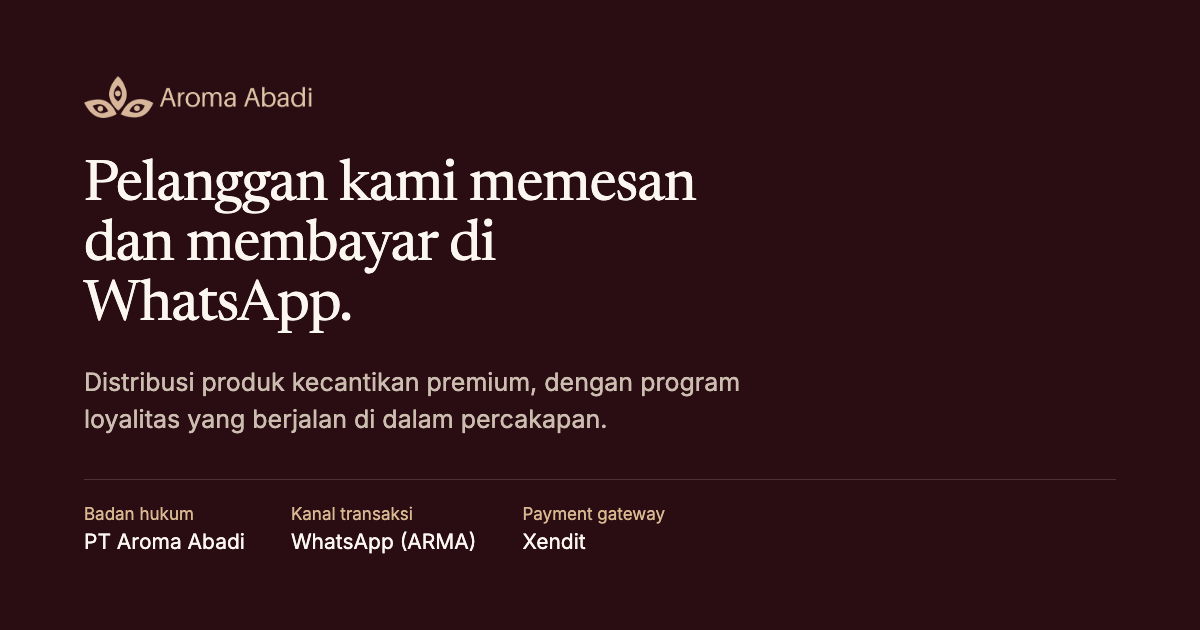
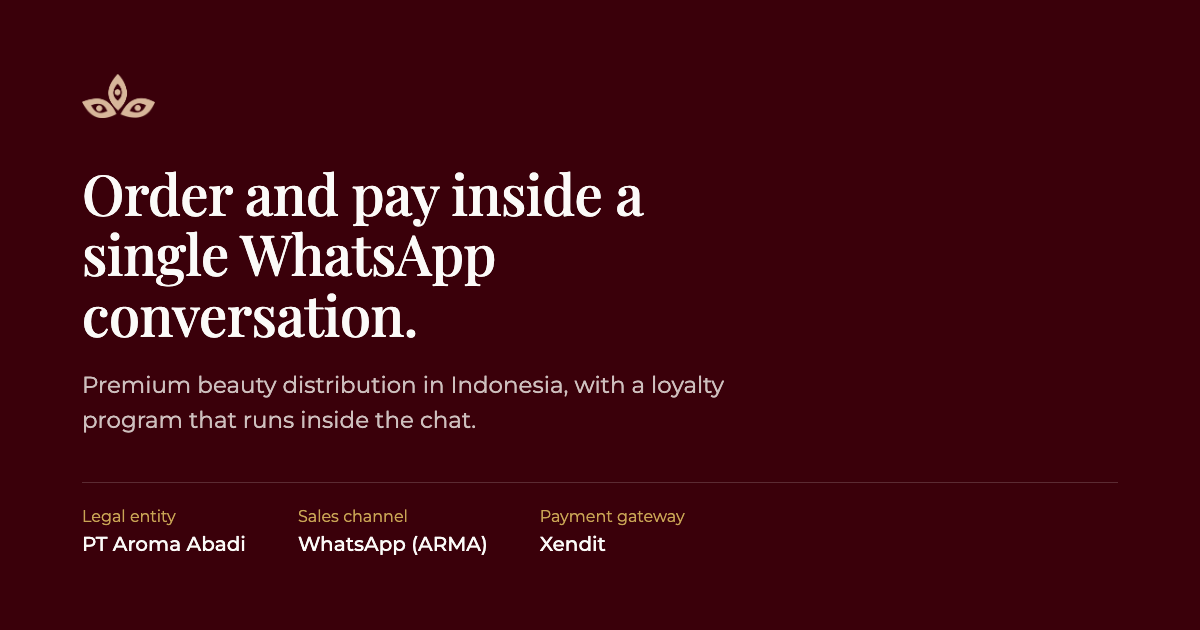
Company page in English, at a tighter rhythm
The page is now written for a reader in English throughout, including the
WhatsApp mock and the Xendit screen. Spacing was cut across the board —
section padding, column gaps, card padding, the step rail — because the
page was breathing far more than it needed to.

The hero handset was too wide to read as a phone; it is now 308x634, the
proportion of a real one. The brand row gets a proper heading instead of a
12px whisper. The footer carries the confirmed details: 24-hour service,
arma@aromaabadi.com, no office phone, and no closing strapline.

NPWP is dropped from the public profile: a tax identification number is
not something a company normally publishes, while the NIB is.

diff --git a/src/routes/company.tsx b/src/routes/company.tsx
@@ -339,7 +339,6 @@ const CONTACT: {
   {
     icon: MapPin,
     label: "Registered office",
-    wide: true,
     value: (
       <>
         <Pending field="full address" tone="maroon" />, South Jakarta, DKI Jakarta
@@ -568,8 +567,7 @@ function CompanyPage() {
             </h1>
             <p className="mt-5 max-w-[54ch] text-pretty text-[15.5px] leading-[1.62] text-[#55504B]">
               We distribute premium beauty products across Indonesia. Customers shop through ARMA,
-              our official WhatsApp assistant, and pay through Xendit without ever leaving the
-              chat.
+              our official WhatsApp assistant, and pay through Xendit without ever leaving the chat.
             </p>
 
             <dl className="mt-8 grid grid-cols-2 gap-px overflow-hidden rounded-[12px] border border-[#E6D8CD] bg-[#E6D8CD] sm:grid-cols-4">
@@ -617,7 +615,7 @@ function CompanyPage() {
                     key={brand.name}
                     src={brand.src}
                     alt={brand.name}
-                    className="lp-brandmark h-[250px] w-[340px] shrink-0 object-contain sm:w-[470px]"
+                    className="lp-brandmark h-[200px] w-[300px] shrink-0 object-contain sm:w-[410px]"
                   />
                 ))}
               </Marquee>
@@ -704,8 +702,8 @@ function CompanyPage() {
           <Reveal>
             <Prose>
               <p>
-                ARMA is the official Aroma Abadi WhatsApp assistant. Customers save a single
-                number: asking, ordering, paying and tracking all happen in the same conversation.
+                ARMA is the official Aroma Abadi WhatsApp assistant. Customers save a single number:
+                asking, ordering, paying and tracking all happen in the same conversation.
               </p>
             </Prose>
           </Reveal>
@@ -757,8 +755,8 @@ function CompanyPage() {
           </h2>
           <span className="mt-4 block h-px w-10 bg-[#BF9877]" />
           <p className="mt-4 text-pretty text-[15.5px] leading-[1.7] text-[#55504B]">
-            Six steps, from the first message to the parcel leaving our warehouse. Step four is
-            the payment point: that is where the customer opens the Xendit page.
+            Six steps, from the first message to the parcel leaving our warehouse. Step four is the
+            payment point: that is where the customer opens the Xendit page.
           </p>
         </Reveal>
 

diff --git a/src/components/landing/parts.tsx b/src/components/landing/parts.tsx
@@ -119,7 +119,7 @@ export function Section({
       >
         {children}
       </div>
-      {bleed ? <div className="pb-10 md:pb-14">{bleed}</div> : null}
+      {bleed ? <div className="pb-7 md:pb-9">{bleed}</div> : null}
     </section>
   );
 }
@@ -172,7 +172,9 @@ export function Split({
 
 export function Prose({ tone = "white", children }: { tone?: Tone; children: ReactNode }) {
   return (
-    <div className={`max-w-[62ch] space-y-3 text-pretty text-[15.5px] leading-[1.62] ${BODY[tone]}`}>
+    <div
+      className={`max-w-[62ch] space-y-3 text-pretty text-[15.5px] leading-[1.62] ${BODY[tone]}`}
+    >
       {children}
     </div>
   );
